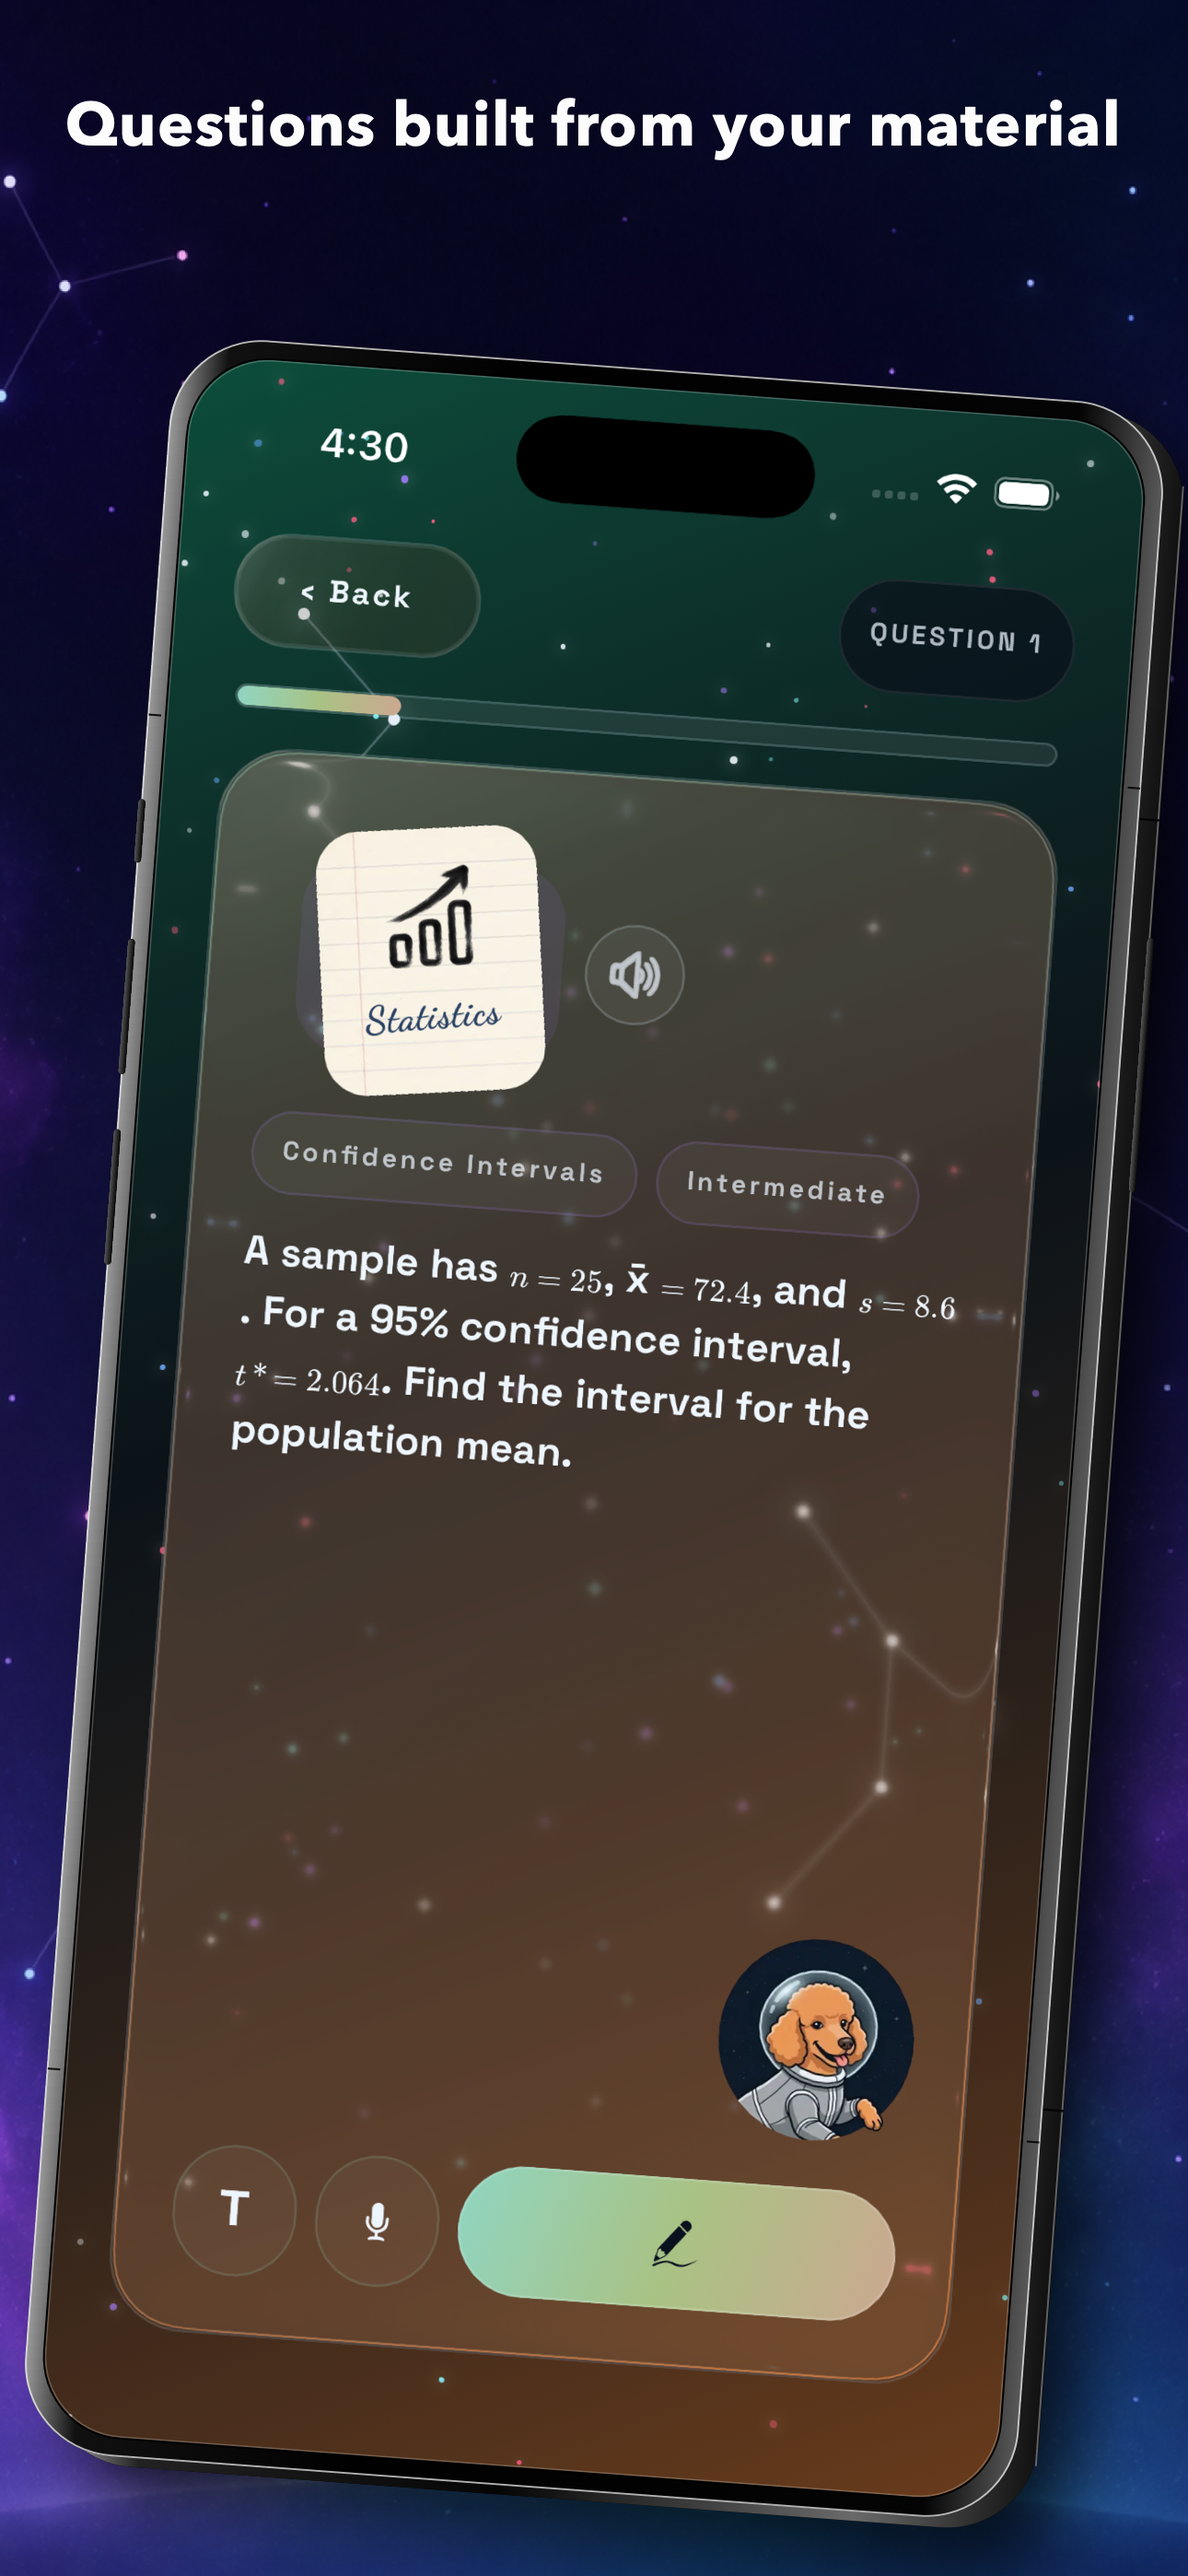
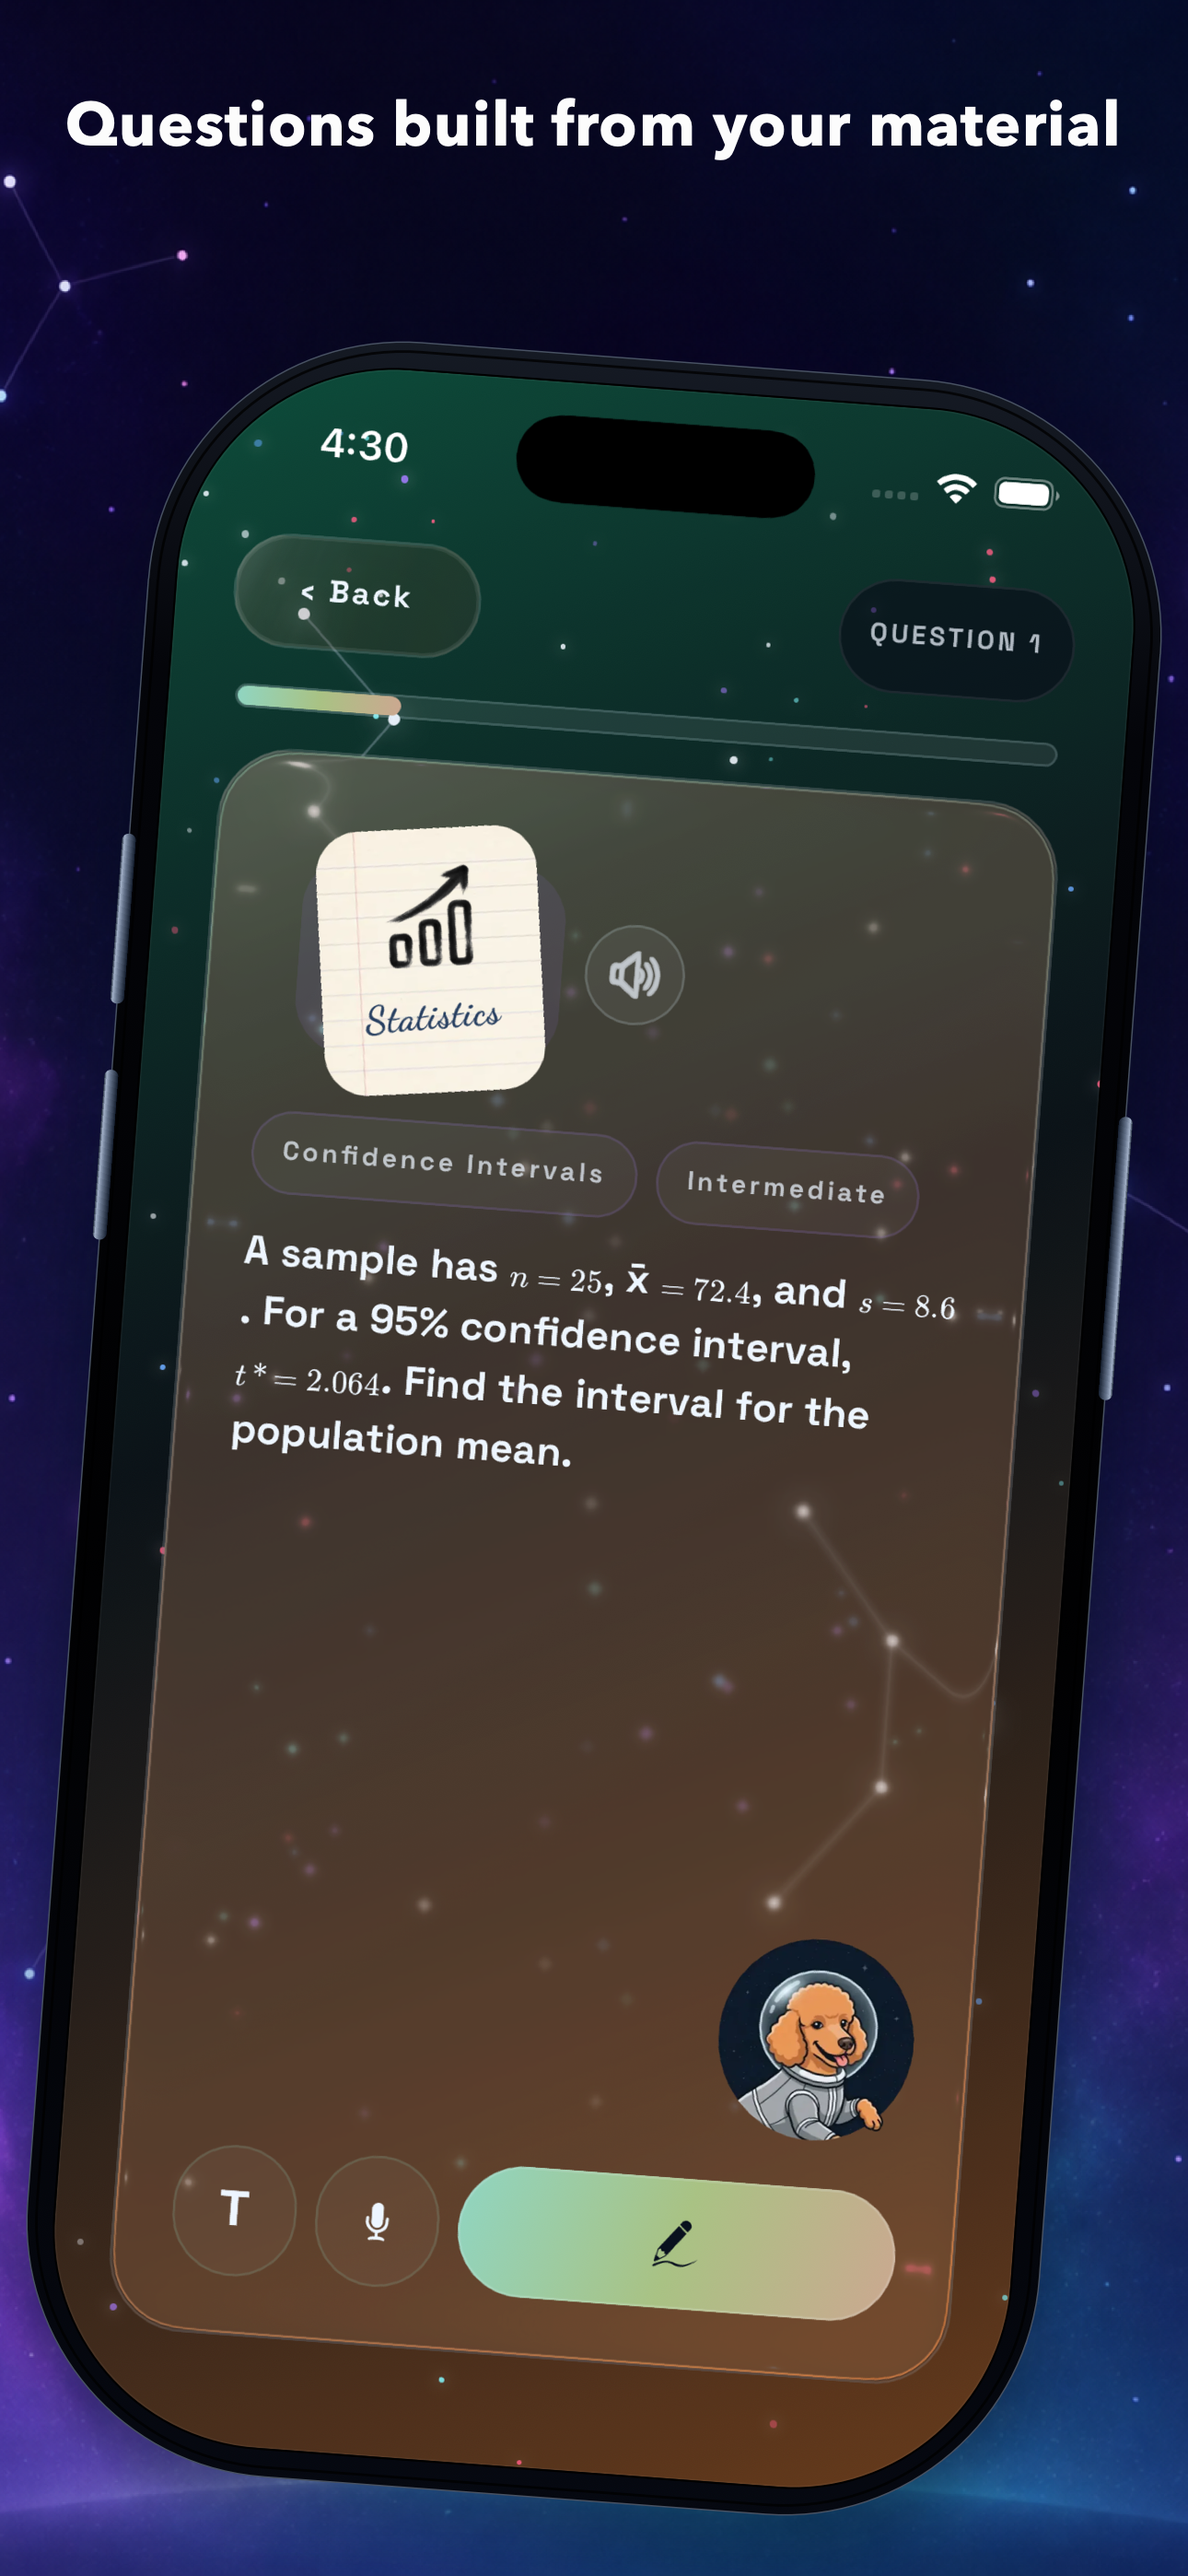
assets: port website phone shell to store graphics

Changed region(s): [[0.0, 0.1245, 1.0, 1.0]]

diff --git a/scripts/render-store-graphics.swift b/scripts/render-store-graphics.swift
@@ -214,6 +214,105 @@ func drawFlyerPhone(_ screenshot: NSImage, screenRect: NSRect, rotation: CGFloat
     NSGraphicsContext.restoreGraphicsState()
 }
 
+// Exact raster counterpart of the phone shell used on the Lune Synth site.
+// Proportions below come directly from the workflow-phone CSS custom properties.
+func drawSitePhone(_ screenshot: NSImage, screenRect: NSRect, rotation: CGFloat) {
+    let shellPadding = screenRect.height * 0.013636
+    let body = screenRect.insetBy(dx: -shellPadding, dy: -shellPadding)
+    let bodyRadius = screenRect.height * 0.122727
+    let screenRadius = screenRect.height * 0.104545
+    let overlayInset = shellPadding / 3
+    let center = NSPoint(x: body.midX, y: body.midY)
+
+    NSGraphicsContext.saveGraphicsState()
+    let transform = NSAffineTransform()
+    transform.translateX(by: center.x, yBy: center.y)
+    transform.rotate(byDegrees: rotation)
+    transform.translateX(by: -center.x, yBy: -center.y)
+    transform.concat()
+
+    NSGraphicsContext.saveGraphicsState()
+    let shadow = NSShadow()
+    shadow.shadowColor = NSColor(calibratedRed: 4 / 255, green: 10 / 255, blue: 24 / 255, alpha: 0.42)
+    shadow.shadowBlurRadius = screenRect.height * 0.028
+    shadow.shadowOffset = NSSize(width: 0, height: -screenRect.height * 0.020)
+    shadow.set()
+    NSColor.black.setFill()
+    NSBezierPath(roundedRect: body, xRadius: bodyRadius, yRadius: bodyRadius).fill()
+    NSGraphicsContext.restoreGraphicsState()
+
+    let shellPath = NSBezierPath(roundedRect: body, xRadius: bodyRadius, yRadius: bodyRadius)
+    let shellGradient = NSGradient(colorsAndLocations:
+        (NSColor(calibratedRed: 17 / 255, green: 20 / 255, blue: 27 / 255, alpha: 1), 0.0),
+        (NSColor(calibratedRed: 5 / 255, green: 6 / 255, blue: 10 / 255, alpha: 1), 0.16),
+        (NSColor(calibratedRed: 1 / 255, green: 1 / 255, blue: 2 / 255, alpha: 1), 0.58),
+        (NSColor(calibratedRed: 7 / 255, green: 9 / 255, blue: 14 / 255, alpha: 1), 1.0)
+    )!
+    shellGradient.draw(in: shellPath, angle: -90)
+
+    NSColor(calibratedRed: 56 / 255, green: 64 / 255, blue: 80 / 255, alpha: 1).setStroke()
+    shellPath.lineWidth = max(1, screenRect.height * 0.00065)
+    shellPath.stroke()
+
+    let overlay = NSBezierPath(
+        roundedRect: body.insetBy(dx: overlayInset, dy: overlayInset),
+        xRadius: bodyRadius - overlayInset,
+        yRadius: bodyRadius - overlayInset
+    )
+    overlay.lineWidth = max(2, screenRect.height * 0.00125)
+    NSColor(calibratedWhite: 0, alpha: 0.78).setStroke()
+    overlay.stroke()
+
+    let buttonWidth = screenRect.height * 0.0068
+    let volumeTop = body.maxY - screenRect.height * 0.245455
+    let volumeHeight = screenRect.height * 0.081818
+    let volumeGap = screenRect.height * 0.031818
+    let powerTop = body.maxY - screenRect.height * 0.345455
+    let powerHeight = screenRect.height * 0.136364
+    let leftX = body.minX - buttonWidth * 0.52
+    let rightX = body.maxX - buttonWidth * 0.48
+    let leftButtonGradient = NSGradient(colorsAndLocations:
+        (NSColor(calibratedRed: 22 / 255, green: 28 / 255, blue: 41 / 255, alpha: 1), 0.0),
+        (NSColor(calibratedRed: 144 / 255, green: 159 / 255, blue: 186 / 255, alpha: 1), 0.18),
+        (NSColor(calibratedRed: 84 / 255, green: 97 / 255, blue: 122 / 255, alpha: 1), 0.44),
+        (NSColor(calibratedRed: 16 / 255, green: 22 / 255, blue: 34 / 255, alpha: 1), 1.0)
+    )!
+    let rightButtonGradient = NSGradient(colorsAndLocations:
+        (NSColor(calibratedRed: 16 / 255, green: 22 / 255, blue: 34 / 255, alpha: 1), 0.0),
+        (NSColor(calibratedRed: 84 / 255, green: 97 / 255, blue: 122 / 255, alpha: 1), 0.56),
+        (NSColor(calibratedRed: 144 / 255, green: 159 / 255, blue: 186 / 255, alpha: 1), 0.82),
+        (NSColor(calibratedRed: 22 / 255, green: 28 / 255, blue: 41 / 255, alpha: 1), 1.0)
+    )!
+    let buttons: [(NSRect, NSGradient)] = [
+        (NSRect(x: leftX, y: volumeTop - volumeHeight, width: buttonWidth, height: volumeHeight), leftButtonGradient),
+        (NSRect(x: leftX, y: volumeTop - volumeHeight * 2 - volumeGap, width: buttonWidth, height: volumeHeight), leftButtonGradient),
+        (NSRect(x: rightX, y: powerTop - powerHeight, width: buttonWidth, height: powerHeight), rightButtonGradient),
+    ]
+    for (button, gradient) in buttons {
+        NSGraphicsContext.saveGraphicsState()
+        let buttonShadow = NSShadow()
+        buttonShadow.shadowColor = NSColor(calibratedRed: 4 / 255, green: 10 / 255, blue: 24 / 255, alpha: 0.24)
+        buttonShadow.shadowBlurRadius = screenRect.height * 0.006
+        buttonShadow.shadowOffset = NSSize(width: 0, height: -1)
+        buttonShadow.set()
+        gradient.draw(in: NSBezierPath(roundedRect: button, xRadius: buttonWidth / 2, yRadius: buttonWidth / 2), angle: 0)
+        NSGraphicsContext.restoreGraphicsState()
+    }
+
+    NSColor.black.setFill()
+    NSBezierPath(roundedRect: screenRect.insetBy(dx: -2, dy: -2), xRadius: screenRadius + 2, yRadius: screenRadius + 2).fill()
+    NSGraphicsContext.saveGraphicsState()
+    NSBezierPath(roundedRect: screenRect, xRadius: screenRadius, yRadius: screenRadius).addClip()
+    screenshot.draw(in: screenRect, from: .zero, operation: .copy, fraction: 1, respectFlipped: true, hints: [.interpolation: NSImageInterpolation.high])
+    NSGraphicsContext.restoreGraphicsState()
+
+    let screenEdge = NSBezierPath(roundedRect: screenRect.insetBy(dx: 0.7, dy: 0.7), xRadius: screenRadius, yRadius: screenRadius)
+    screenEdge.lineWidth = max(1, screenRect.height * 0.0007)
+    NSColor(calibratedWhite: 1, alpha: 0.04).setStroke()
+    screenEdge.stroke()
+    NSGraphicsContext.restoreGraphicsState()
+}
+
 let portraitBackground = load("\(playOutput)/phone-background-master.png")
 for shot in shots {
     let source = load(shot.source)
@@ -221,14 +320,14 @@ for shot in shots {
     let play = canvas(width: 1080, height: 1920) {
         drawCover(portraitBackground, in: NSRect(x: 0, y: 0, width: 1080, height: 1920))
         centeredText(shot.caption, y: 1778, width: 1080, size: 52)
-        drawFlyerPhone(source, screenRect: NSRect(x: 195, y: 122, width: 690, height: 1500), rotation: shot.rotation)
+        drawSitePhone(source, screenRect: NSRect(x: 195, y: 122, width: 690, height: 1500), rotation: shot.rotation)
     }
     writeOpaquePNG(play, to: "\(playOutput)/\(shot.name).png")
 
     let ios = canvas(width: 1290, height: 2796) {
         drawCover(portraitBackground, in: NSRect(x: 0, y: 0, width: 1290, height: 2796))
         centeredText(shot.caption, y: 2602, width: 1290, size: 66)
-        drawFlyerPhone(source, screenRect: NSRect(x: 125, y: 115, width: 1040, height: 2261), rotation: shot.rotation * 0.82)
+        drawSitePhone(source, screenRect: NSRect(x: 125, y: 115, width: 1040, height: 2261), rotation: shot.rotation * 0.82)
     }
     writeOpaquePNG(ios, to: "\(iosOutput)/\(shot.name).png")
 }
@@ -248,6 +347,6 @@ let feature = canvas(width: 1024, height: 500) {
         .foregroundColor: NSColor(calibratedRed: 0.86, green: 0.92, blue: 1, alpha: 1),
     ]
     NSString(string: "Study sets that\ngrade your work").draw(in: NSRect(x: 104, y: 210, width: 330, height: 82), withAttributes: copyAttrs)
-    drawFlyerPhone(featurePhone, screenRect: NSRect(x: 690, y: -32, width: 258, height: 561), rotation: -7)
+    drawSitePhone(featurePhone, screenRect: NSRect(x: 690, y: -32, width: 258, height: 561), rotation: -7)
 }
 writeOpaquePNG(feature, to: "\(playOutput)/feature-graphic-1024x500.png")

diff --git a/docs/store-assets/README.md b/docs/store-assets/README.md
@@ -6,10 +6,10 @@
 
 - Added shared native iPhone source captures and separate Google Play and iOS
   marketing exports.
-- Standardized the store graphics specifically on flyer 36's black titanium
-  phone treatment: varied left/right three-quarter views, near-flush displays,
-  polished sidewalls, segmented bands, and restrained metallic edges. Every
-  app interface remains an untouched screenshot layer.
+- Standardized the store graphics on the website's existing phone mock: the
+  same shell padding, corner radii, black gradient, inset edge stack, attached
+  button rails, and shadows. Every app interface remains an untouched
+  screenshot layer.
 
 ## Structure
 
